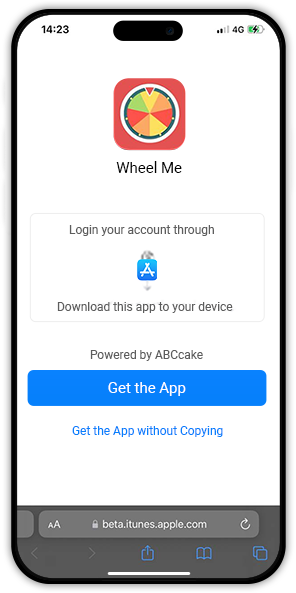
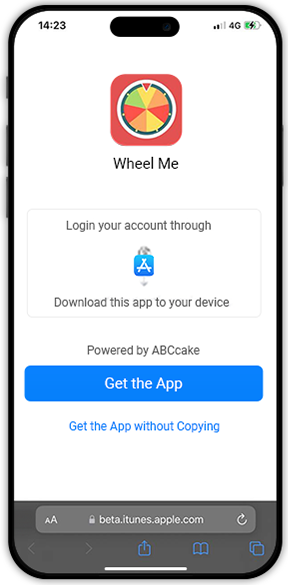
feat: app download page - fix  bugs

diff --git a/src/components/app-landing-page/index.tsx b/src/components/app-landing-page/index.tsx
@@ -21,10 +21,10 @@ const DownloadSection = () => {
             image: `${imagesPath}button-dl-ios.png`,
             url: "https://hackernoon.com/how-to-build-a-qr-code-generator-in-react"
         },
-        {
-            image: `${imagesPath}button-dl-android.png`,
-            url: "https://css-tricks.com/snippets/css/media-queries-for-standard-devices/"
-        },
+        // {
+        //     image: `${imagesPath}button-dl-android.png`,
+        //     url: "https://css-tricks.com/snippets/css/media-queries-for-standard-devices/"
+        // },
 
     ];
 
@@ -39,8 +39,9 @@ const DownloadSection = () => {
                         <div><img src={item.image} alt="" /></div>
                         <div><QRCodeCanvas
                             value={item.url}
-                            size={isMobileOnly ? 80 : 90}
+                            size={90}
                             level={"L"}
+                            includeMargin={true}
                         /></div>
                     </div>);
                 })
@@ -79,7 +80,7 @@ const AppLandingPageComponent: React.FunctionComponent<{ locale: string }> = ({ 
                     {resources.appDownload}
                 </div>
             </div>
-            <div className="row">
+            <div className={`row ${Styles["margin-top-40"]}`}>
                 <div className="col-md-1"> </div>
                 <div className={`col-md-5 col-xs-12  ${Styles["description"]}`}>
                     <ul>
@@ -93,7 +94,7 @@ const AppLandingPageComponent: React.FunctionComponent<{ locale: string }> = ({ 
                         }
                     </ul>
                 </div>
-                <div className={`col-md-6 order-first order-md-2 ${Styles["app-download"]}  ${isMobile ? "text-center" : ""}`}>
+                <div className={`col-md-6 order-first order-md-2 ${Styles["app-download"]}`}>
                     <DownloadSection />
                 </div>
             </div>

diff --git a/src/components/app-landing-page/app-landing-page.module.scss b/src/components/app-landing-page/app-landing-page.module.scss
@@ -9,7 +9,7 @@
 
 	.logo {
 		margin: 20px !important;
-		transform:scale(0.7);
+		transform: scale(0.7);
 		content: url("/static/images/app-download/logo-saba.png");
 	}
 
@@ -28,11 +28,17 @@
 		margin-top: 50px;
 	}
 
+	.margin-top-40 {
+		margin-top: 40px;
+	}
+
 	.description {
 		font-size: 24px;
+		display: flex;
+		align-items: center;
+		justify-content: center;
 
 		ul {
-			margin-top: 40px;
 			li {
 				.arrow {
 					height: 20px;
@@ -41,32 +47,34 @@
 					content: url("/static/images/app-download/arrow.png");
 				}
 
-				line-height: 40px;
-				margin-bottom: 20px;
-				display: block;
+				line-height: 50px;
 			}
 		}
 	}
 
 	.app-download {
 		color: #f19706;
+		display: flex;
+		align-items: center;
 
 		.qr-code {
+			padding: 10px;
+
 			div {
 				display: inline-block;
+				vertical-align: middle;
+
+				img {
+					height: 70px;
+					width: 250px;
+					margin-left: 20px;
+					margin-right: 30px;
+					display: inline-block;
+				}
 			}
 
-			img {
-				height: 70px;
-				width: 250px;
-				margin-left: 20px;
-				margin-right: 30px;
-				display: block;
-				margin-top: 40px;
-			}
 		}
 	}
-
 
 	.installation-guide {
 		margin-top: 50px;
@@ -127,8 +135,6 @@
 	}
 }
 
-
-
 @media only screen and (max-width: 1024px) {
 	.container {
 		.steps {
@@ -155,19 +161,25 @@
 		}
 
 		.app-download {
+			display: block;
+
 			.qr-code {
 				text-align: center;
 
-				img {
-					transform:scale(1);
-					margin-left: 10px;
-					margin-right: 10px;
+				div {
+					display: inline-block;
+					vertical-align: middle;
+
+					img {
+						transform: scale(1);
+						margin-left: 10px;
+						margin-right: 10px;
+					}
 				}
 			}
 		}
 
 		.description {
-
 			font-size: 16px;
 
 			ul {
@@ -175,7 +187,7 @@
 				margin-top: 40px;
 
 				li {
-					line-height: 2.5rem;
+					line-height: 40px;
 				}
 			}
 		}
@@ -204,5 +216,3 @@
 		}
 	}
 }
-
-
